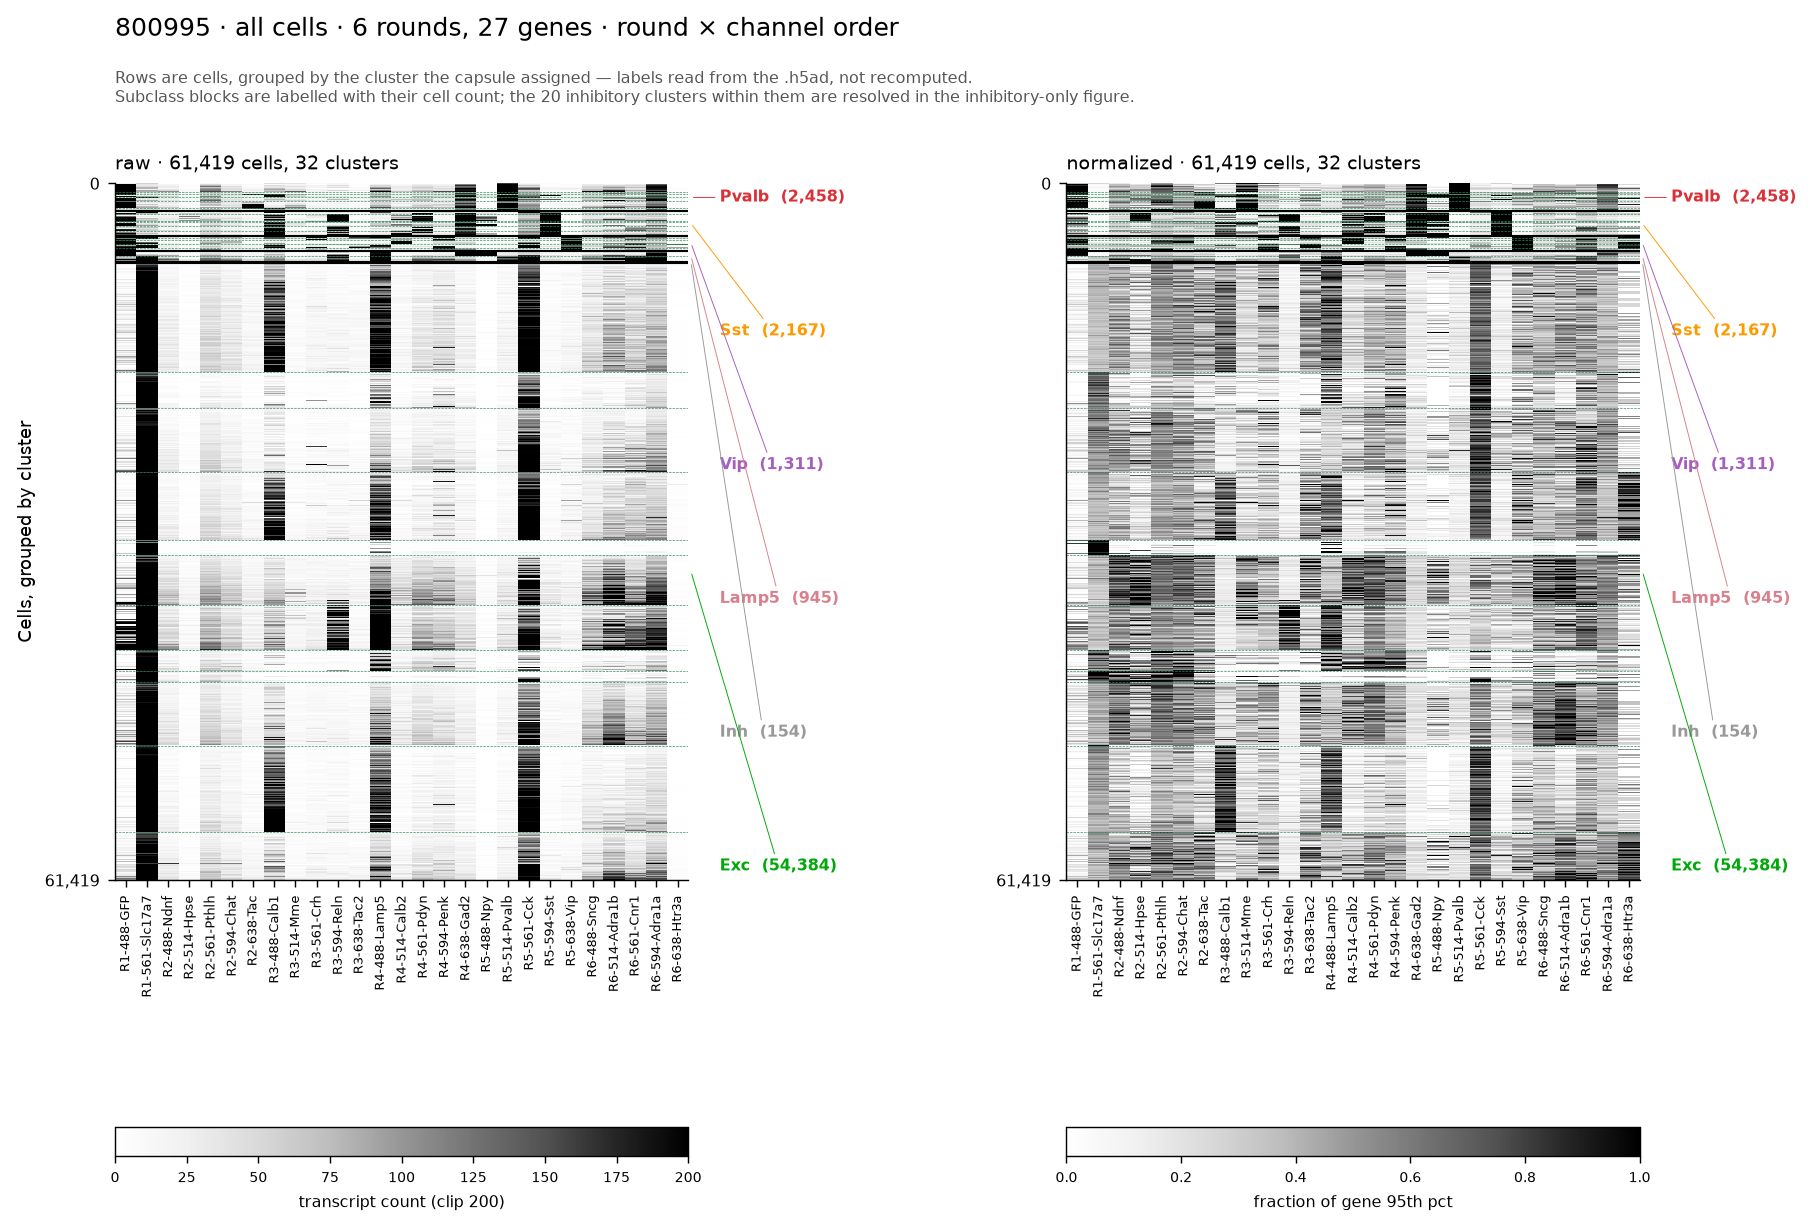
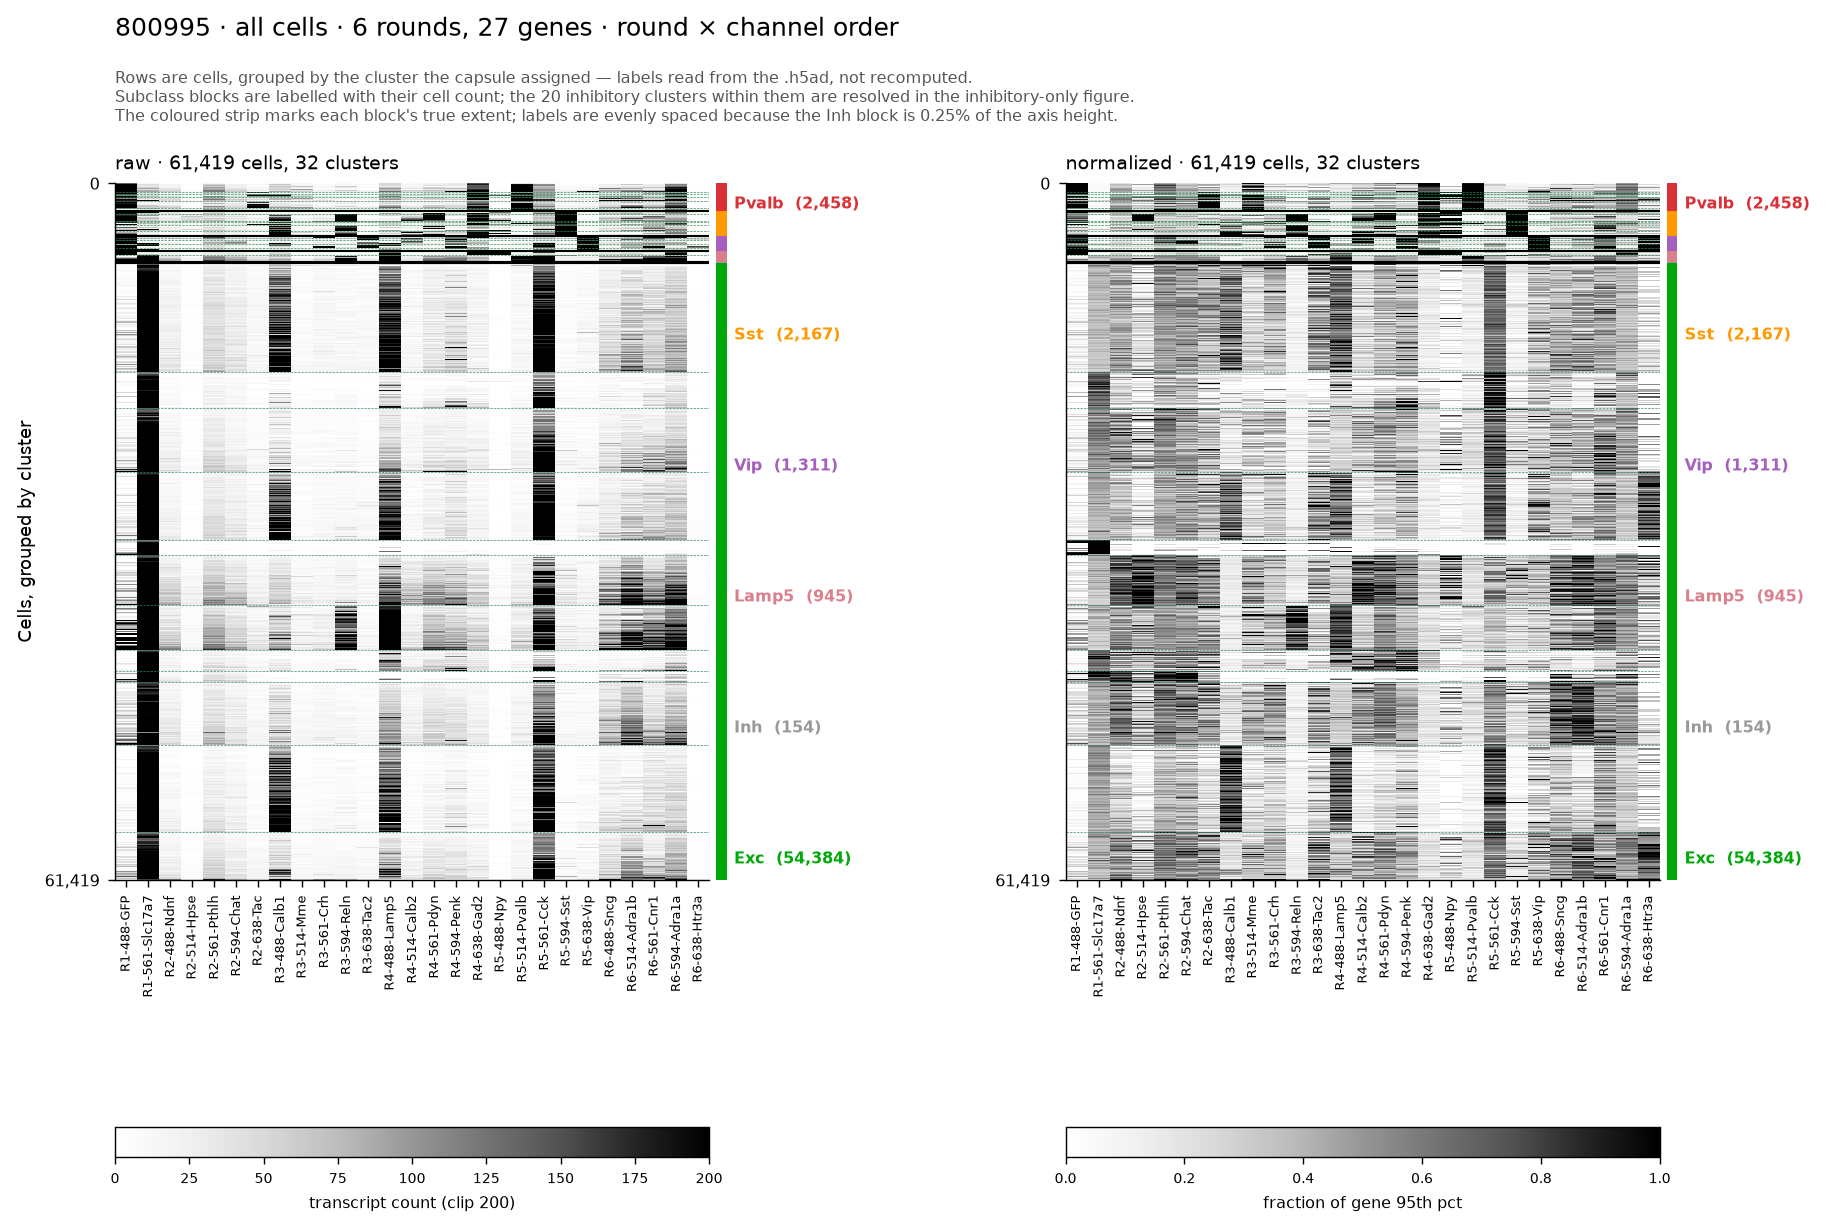
Fix two review findings: wrong enrichment figure in a docstring, unlegible all-cells labels
1. test_subclass_is_the_highest_expressing_marker_not_the_most_enriched claimed the
   fixture gives Lamp5 "10x its across-cluster mean, versus 1.8x for Pvalb". Computed
   from the fixture as written: Lamp5 = 0.40/0.20 = 2.00x, Pvalb = 0.90/0.50 = 1.80x.
   The 1.8x was right, the 10x was invented. The assert and the qualitative point both
   hold, but the number was wrong in a committed docstring. Corrected to 2.00x/1.80x
   with the arithmetic spelled out.

2. I wrote "All six blocks legible" for the all-cells figures immediately after my own
   check printed overlaps=16 -- a regression on the overlaps=4 of the attempt it was
   meant to fix -- and saved them anyway. The claim was not supported when I made it.

   Root cause of the 16 was a THIRD bug in that detector, not the figure:
   Annotation.get_window_extent unions the text box with its ARROW, so leader-line
   callouts register as one huge box overlapping everything, even with the text 200px
   apart. Text.get_window_extent measures glyphs only. The detector has now been wrong
   three ways -- missing secondary axes, counting arrows as text, and (earlier) being
   read as authoritative when it disagreed with the rendered image.

   The leader-line layout was replaced regardless, because inspecting the render showed
   a real defect the count would never have caught: the lines had to cross the heatmap
   to reach a 154-cell block, drawing over the data they annotated. Blocks are now
[…]

diff --git a/tests/test_core.py b/tests/test_core.py
@@ -417,10 +417,11 @@ def test_no_cell_is_dropped_by_depth_normalization():
 def test_subclass_is_the_highest_expressing_marker_not_the_most_enriched():
     """Level, not enrichment -- so the label never contradicts the heatmap.
 
-    Pvalb is the highest-expressing marker in cluster 0, but Lamp5 is far more
-    ENRICHED there (10x its across-cluster mean, versus 1.8x for Pvalb). The old
-    enrichment rule labelled such clusters Lamp5 while the Pvalb column was visibly
-    darker; three real clusters on 800995 had exactly this contradiction.
+    Pvalb is the highest-expressing marker in cluster 0 (0.90 vs Lamp5's 0.40), but
+    Lamp5 is the more ENRICHED one: 0.40/0.20 = 2.00x its across-cluster mean, against
+    0.90/0.50 = 1.80x for Pvalb. The old enrichment rule labelled such clusters Lamp5
+    while the Pvalb column was visibly darker; three real clusters on 800995 had exactly
+    this contradiction.
     """
     from aind_hcr_pairwise_unmixing_calibrated import annotate as A
 
